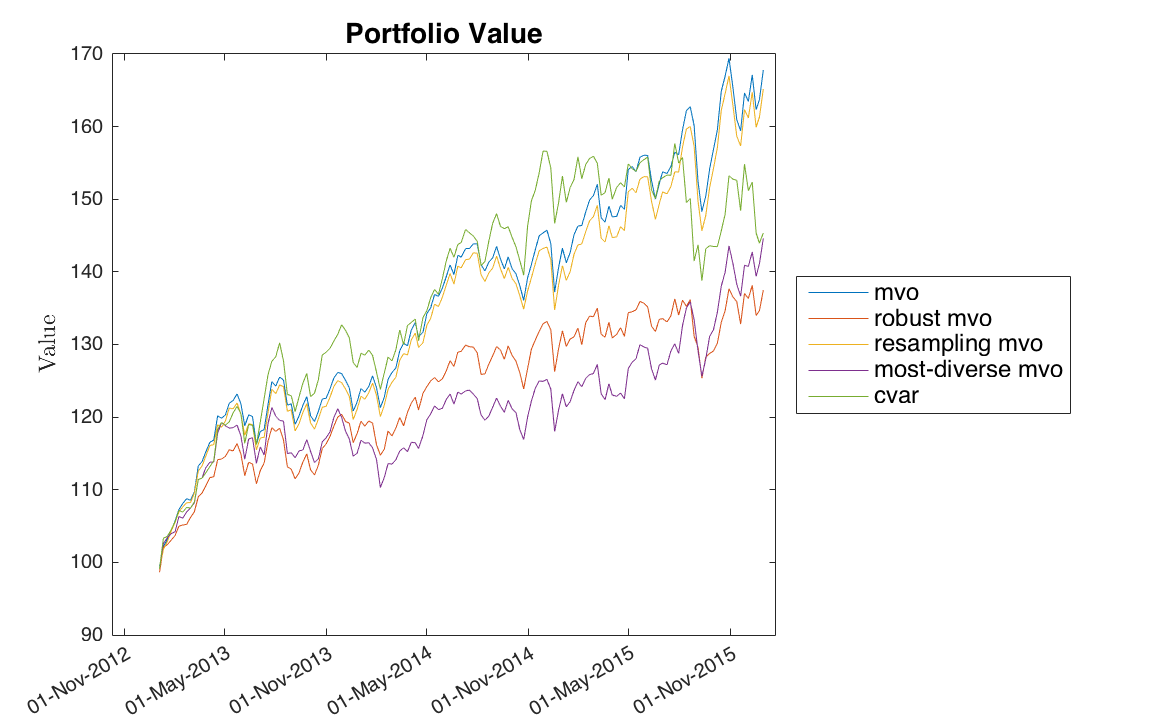
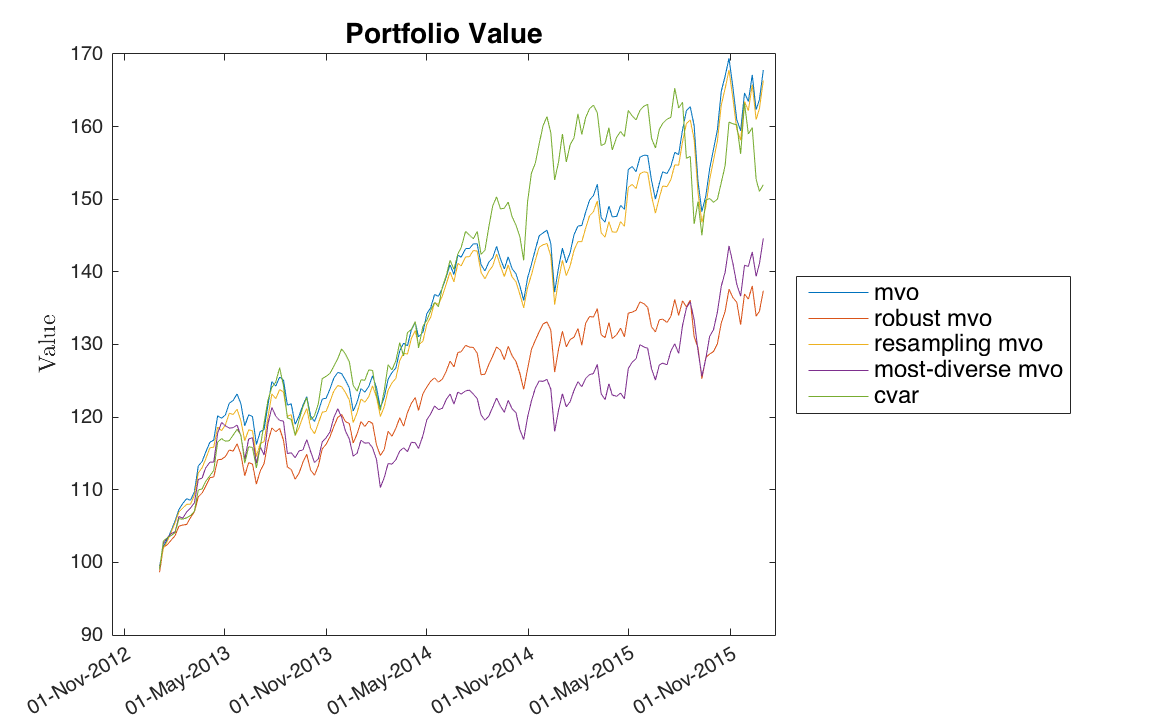
cvar is calculated for each portfolio method at each investment period

diff --git a/cvar.m b/cvar.m
@@ -1,36 +1,7 @@
-function [x_optimal, VaR] = cvar(mu, Q, prices, beta)
-    
-    % we need the correlation matrix to simulate the correlated prices of 
-    % portfolio
-    rho = corrcov(Q);
-    
-    % we take the cholesky factorization of the correlation matrix
-    L = chol(rho, 'lower');
-    
-    % the number of monte carlo simulations that we will run
-    S = 2000;
+function [x_optimal, VaR, CVaR] = cvar(prices, S, beta, sim_returns, sim_prices)
     
     % the number of assets in our portfolio 
     N = size(prices, 1);
-    
-    % our simulated asset prices and returns
-    sim_price = zeros(N,S);
-    sim_returns = zeros(N,S);
-        
-    % we have weekly estimates for returns and we wish to simulate the
-    % price path after six months using a single time-step
-    dt = 26;
-       
-    for i=1:S
-        % our random correlated pertubations
-        epsilon = L * normrnd(0,1,[N,1]);
-        
-        % calculate our simulated prices
-        sim_price(:,i) = prices .* exp((mu - 0.5 * diag(Q))*dt + sqrt(dt)*sqrt(diag(Q)) .* epsilon);  
-        
-        % calculate our simulated returns
-        sim_returns(:,i) = (sim_price(:,i) - prices) ./ prices;
-    end
     
       % uncomment if you want to create a mesh plot for your simulated asset prices  
 %     X = 1:N;
@@ -42,8 +13,7 @@ function [x_optimal, VaR] = cvar(mu, Q, prices, beta)
 %     zlabel('Asset Price','interpreter','latex','FontSize',12);
              
     % we formulate our linear objective function
-    % NOTE: ordering of decision variables: gamma, x_1 ... x_N, z_1 ... z_S
-    
+    % NOTE: ordering of decision variables: gamma, x_1 ... x_N, z_1 ... z_S  
     % objective function value
     f = [1 zeros(1,N) 1/((1-beta)*S)*ones(1,S)]';
     
@@ -57,15 +27,16 @@ function [x_optimal, VaR] = cvar(mu, Q, prices, beta)
     beq = 1;
     
     % we prohibit short-selling so all decision-variables are positive
-    lb = zeros(1+N+S,1);
+    lb = [-10e6; zeros(N+S,1)];
     
     % no upper-bound on our decision-variables
     ub = [];
     
     % optimal solution to the linear-program minimizing CVaR
-    optimal = linprog(f, A, b, Aeq, beq, lb, ub);
+    [optimal,CVaR] = linprog(f, A, b, Aeq, beq, lb, ub);
     
     VaR = optimal(1);
     x_optimal = optimal(2:N+1); 
+    
 end
 

diff --git a/monte_carlo.m b/monte_carlo.m
@@ -1,0 +1,27 @@
+function [sim_returns, sim_price] = monte_carlo(mu, Q, prices, S, dt)
+    % we need the correlation matrix to simulate the correlated prices of 
+    % portfolio
+    rho = corrcov(Q);
+    
+    % we take the cholesky factorization of the correlation matrix
+    L = chol(rho, 'lower');
+    
+    % the number of assets in our portfolio 
+    N = size(prices, 1);
+    
+    % our simulated asset prices and returns
+    sim_price = zeros(N,S);
+    sim_returns = zeros(N,S);
+       
+    for i=1:S
+        % our random correlated pertubations
+        epsilon = L * normrnd(0,1,[N,1]);
+        
+        % calculate our simulated prices
+        sim_price(:,i) = prices .* exp((mu - 0.5 * diag(Q))*dt + sqrt(dt)*sqrt(diag(Q)) .* epsilon);  
+        
+        % calculate our simulated returns
+        sim_returns(:,i) = (sim_price(:,i) - prices) ./ prices;
+    end
+end
+

diff --git a/robust_mvo.m b/robust_mvo.m
@@ -32,7 +32,7 @@ function robust_optimal = robust_mvo(mu, Q, lambda, alpha)
     model.quadcon(1).sense = '=';
     
     % we permit short-selling on our holding assets
-    model.lb = [-100000*ones(N,1); 0];
+    model.lb = [-1000000*ones(N,1); 0];
 
     result = gurobi(model);
     robust_optimal = result.x(1:N);
